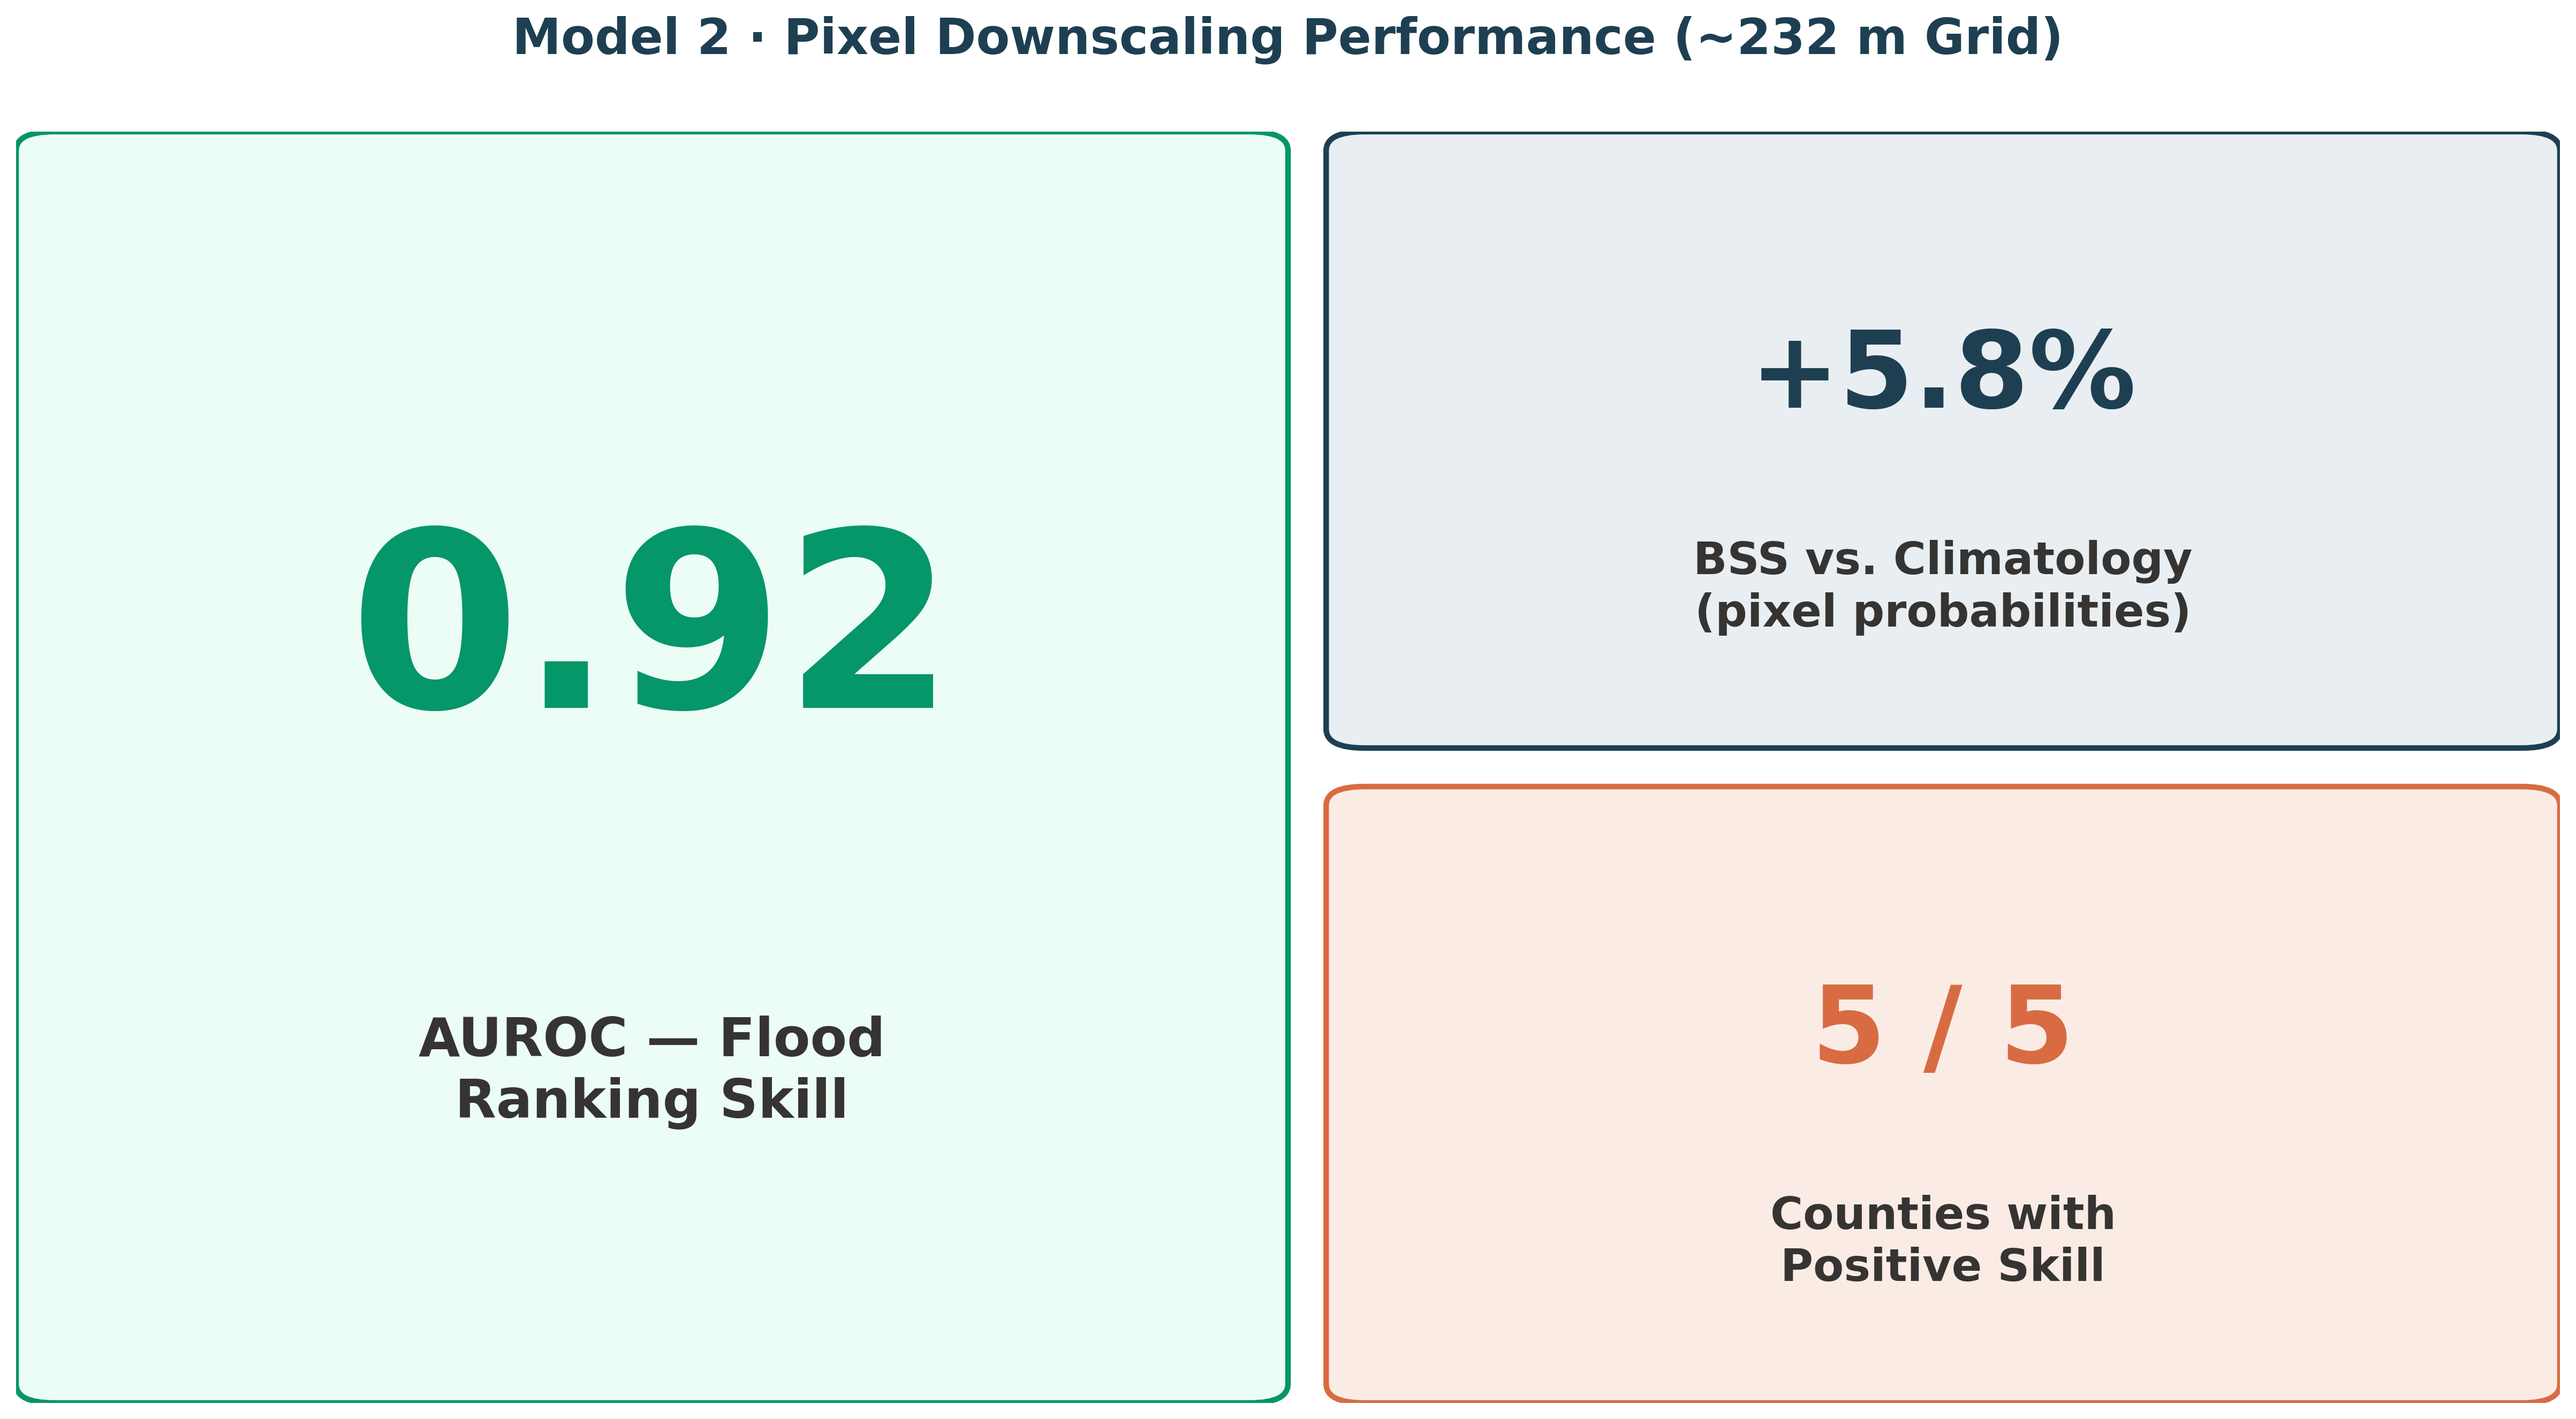
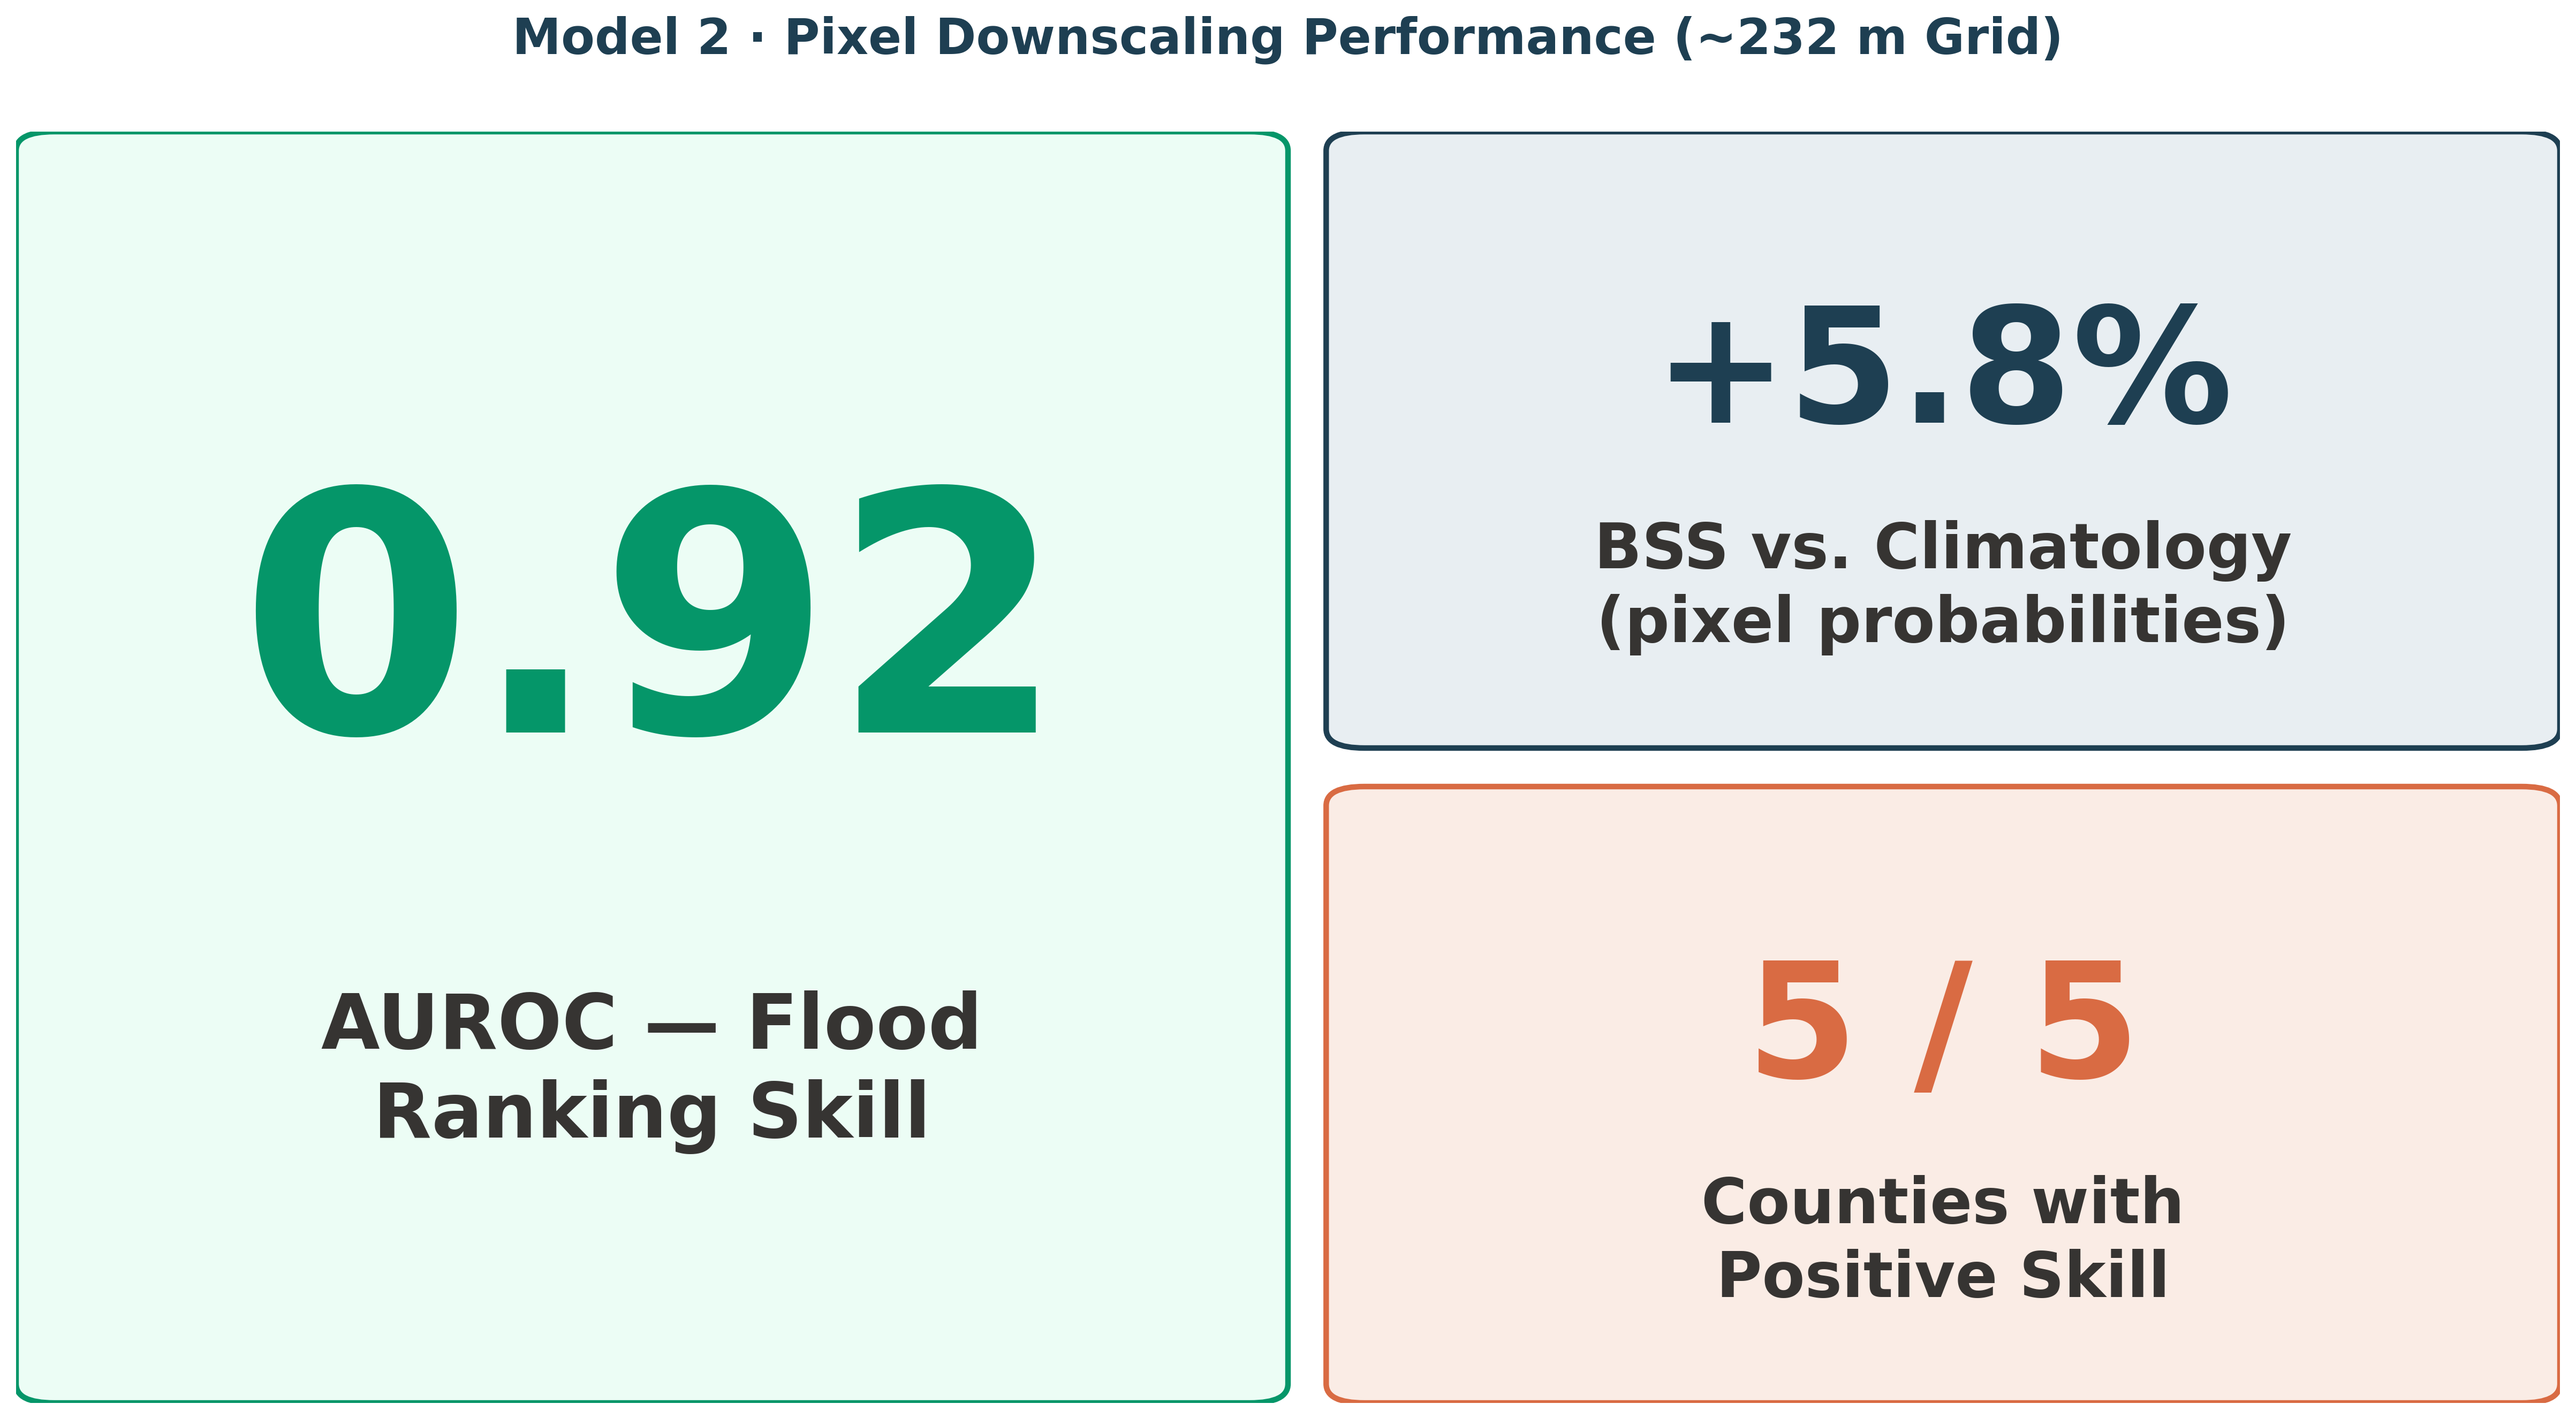
style: bigger text in Model 2 stat cards
- hero card: 0.92 stat 110 -> 150 pt, label 24 -> 34 pt
- supporting cards: stats 48 -> 72 pt, labels 20 -> 28 pt
- verified all text still inside its card, no overlaps, ruff clean

diff --git a/generate_model_performance_poster.py b/generate_model_performance_poster.py
@@ -203,9 +203,9 @@ def generate_model2_overview(output_dir: Path) -> tuple[Path, Path]:
         (hero_w + gap_x, 0.0, small_w, small_h),
     ]
     cards = [
-        (f"{auroc:.2f}", "AUROC \u2014 Flood\nRanking Skill", C_GREEN, 110, 24),
-        (f"+{bss_all:.1f}%", "BSS vs. Climatology\n(pixel probabilities)", C_BLUE, 48, 20),
-        (f"{n_pos} / 5", "Counties with\nPositive Skill", C_ORANGE, 48, 20),
+        (f"{auroc:.2f}", "AUROC \u2014 Flood\nRanking Skill", C_GREEN, 150, 34),
+        (f"+{bss_all:.1f}%", "BSS vs. Climatology\n(pixel probabilities)", C_BLUE, 72, 28),
+        (f"{n_pos} / 5", "Counties with\nPositive Skill", C_ORANGE, 72, 28),
     ]
     for (x, y, w, h), (stat, label, accent, ss, ls) in zip(rects, cards):
         ax.add_patch(mpatches.FancyBboxPatch(
